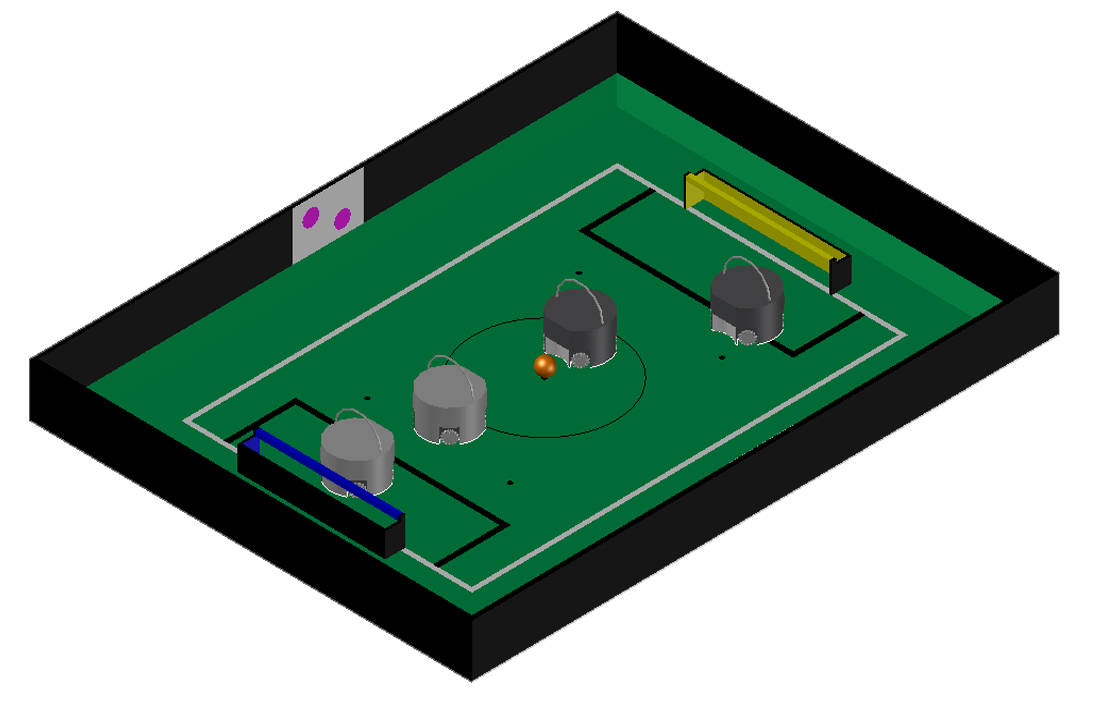
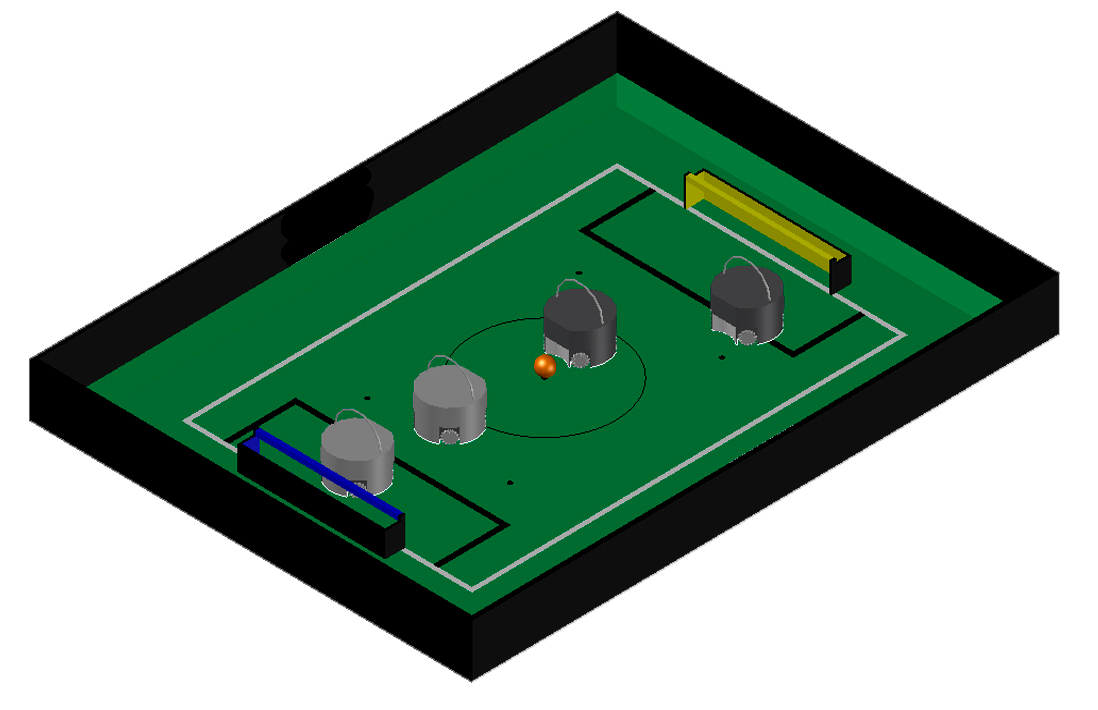
update: Correct year & images
* Update year on the front site

* Update images (landmarks no longer included)

Changed region(s): [[0.2477, 0.2169, 0.3406, 0.3718], [0.4954, 0.4958, 0.5264, 0.5268]]

diff --git a/tex/rules.tex b/tex/rules.tex
@@ -80,7 +80,7 @@
 \maketitle
 \thispagestyle{firststyle}
 
-\textbf{Soccer Technical Committee 2019:}
+\textbf{Soccer Technical Committee 2018:}
 
 \resizebox{0.45\textwidth}{!}{
 \begin{tabular}{lr}
